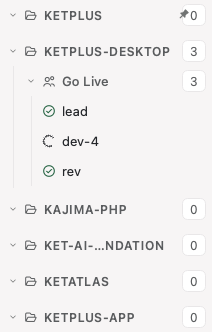
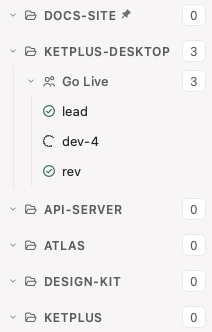
fix(sidebar): keep the pin mark clear of the count and hover action (T-92 r1)
The pin sat past the name area, over the count pill. It now follows the
drawn name inside the name area, a long name is shortened in the middle
to make room (the accessible name stays full), and it re-places on hover
and focus. A geometry test asserts it never meets the count or action.
Captures use neutral repository names.

diff --git a/tests/SidebarRepositoryOrderTest.cpp b/tests/SidebarRepositoryOrderTest.cpp
@@ -16,6 +16,7 @@
 #include <QAction>
 #include <QDateTime>
 #include <QDir>
+#include <QEnterEvent>
 #include <QJsonObject>
 #include <QMenu>
 #include <QProcess>
@@ -258,6 +259,63 @@ class SidebarRepositoryOrderTest final : public QObject {
         QCOMPARE(QSettings().value("sidebar/pinnedRepositories").toStringList(), QStringList{kept});
     }
 
+    // Round 1 L1: the pin stays clear of the count and the hover action, at any name length;
+    // a long name is shortened to make room, and the header keeps the full accessible name.
+    void thePinMarkNeverMeetsTheCountOrTheAction() {
+        const QString shortName = folder("shop");
+        const QString longName = folder("long");
+        const QString full = QStringLiteral("a-repository-name-far-too-long-for-the-sidebar-row");
+        const QVector<SidebarRepository> repositories{
+            {.path = shortName,
+             .name = "shop",
+             .conversations = {conversation("shop-1", 900)},
+             .pinnable = true},
+            {.path = longName,
+             .name = full,
+             .conversations = {conversation("long-1", 800), conversation("long-2", 700)},
+             .pinnable = true}};
+        ketplus::SidebarRepositoryList list;
+        list.resize(260, 600);
+        list.setRepositories(repositories);
+        list.setRepositoryPinned(shortName, true);
+        list.setRepositoryPinned(longName, true);
+        list.show();
+        QVERIFY(QTest::qWaitForWindowExposed(&list));
+        const auto clear = [&](const QString& path, const char* state) {
+            QCoreApplication::processEvents();
+            ket::SidebarRepositoryHeader* header = headerOf(list, path);
+            QVERIFY(header != nullptr);
+            auto* mark = header->findChild<QWidget*>("productRepositoryPinMark");
+            QVERIFY2(mark != nullptr, state);
+            QVERIFY2(header->rect().contains(mark->geometry()), state);
+            QVERIFY2(mark->geometry().right() <= header->nameRect().right(), state);
+            for (QWidget* part : header->findChildren<QWidget*>(Qt::FindDirectChildrenOnly)) {
+                if (part == mark || part->isHidden())
+                    continue;
+                QVERIFY2(!part->geometry().intersects(mark->geometry()),
+                         qPrintable(QStringLiteral("%1: pin %2 meets %3 %4")
+                                        .arg(QString::fromLatin1(state))
+                                        .arg(QDebug::toString(mark->geometry()))
+                                        .arg(QString::fromLatin1(part->metaObject()->className()))
+                                        .arg(QDebug::toString(part->geometry()))));
+            }
+        };
+        clear(shortName, "short name");
+        clear(longName, "long name");
+        ket::SidebarRepositoryHeader* header = headerOf(list, longName);
+        QVERIFY(header->text() != full);
+        QCOMPARE(header->accessibleName(), full);
+        header->setExpanded(!header->isExpanded());
+        QCOMPARE(header->accessibleName(), full);
+        // Hovered, the header shows its action where the name area ends.
+        QEnterEvent enter(QPointF(10, 10), QPointF(10, 10), QPointF(10, 10));
+        QCoreApplication::sendEvent(header, &enter);
+        clear(longName, "long name, hovered");
+        QEvent leave(QEvent::Leave);
+        QCoreApplication::sendEvent(header, &leave);
+        clear(longName, "long name, left");
+    }
+
     // Evidence for the pull request, only when KETPLUS_SIDEBAR_CAPTURE names a folder: the
     // sidebar of the report (idle repositories, then one whose conversations are all team
     // members), with one repository pinned when KETPLUS_SIDEBAR_CAPTURE_PIN is set.
@@ -266,8 +324,7 @@ class SidebarRepositoryOrderTest final : public QObject {
         if (target.isEmpty())
             QSKIP("Set KETPLUS_SIDEBAR_CAPTURE to a folder to write the captures.");
         QVector<SidebarRepository> repositories;
-        for (const QString& name :
-             {"kajima-php", "ket-ai-foundation", "ketatlas", "ketplus", "ketplus-app"})
+        for (const QString& name : {"api-server", "atlas", "design-kit", "docs-site", "ketplus"})
             repositories.append({.path = folder(name), .name = name, .pinnable = true});
         SidebarTeam golive{.id = "5", .name = "Go Live"};
         golive.members = {member("lead", "leader", 1700), member("dev-4", "developer", 1900),

diff --git a/apps/desktop/src/workspace/SidebarPinMark.cpp b/apps/desktop/src/workspace/SidebarPinMark.cpp
@@ -5,6 +5,8 @@
 #include "KetTokens.h"
 
 #include <QEvent>
+#include <QFontMetrics>
+#include <QMetaObject>
 #include <QPainter>
 #include <QPainterPath>
 
@@ -14,28 +16,74 @@ namespace {
 // Logical pixels at 100% zoom.
 constexpr qreal kMarkSize = 11;
 
+// The header's name font: its recipe's size, weight and spacing, in capitals.
+QFont nameFontOf(const ket::SidebarRepositoryHeader& header) {
+    const ket::SidebarRepositoryRecipe r = header.recipe();
+    const ket::Appearance& appearance = ket::Appearance::instance();
+    QFont font = header.font();
+    font.setPixelSize(qRound(appearance.scaled(r.namePixels)));
+    font.setWeight(QFont::Weight(r.nameWeight));
+    font.setCapitalization(QFont::AllUppercase);
+    font.setLetterSpacing(QFont::AbsoluteSpacing, r.letterSpacing * appearance.zoom());
+    return font;
+}
+
 } // namespace
 
 SidebarPinMark::SidebarPinMark(ket::SidebarRepositoryHeader* header)
-    : QWidget(header), header_(header) {
+    : QWidget(header), header_(header), fullName_(header->text()) {
     setAttribute(Qt::WA_TransparentForMouseEvents);
     connect(&ket::Appearance::instance(), &ket::Appearance::zoomChanged, this, [this] { place(); });
+    // The header names itself again when it folds or unfolds; it keeps the full name.
+    connect(header, &QAbstractButton::toggled, this,
+            [this] { header_->setAccessibleName(fullName_); });
 }
 
 void SidebarPinMark::place() {
-    const int side = qRound(kMarkSize * ket::Appearance::instance().zoom());
+    if (placing_)
+        return;
+    placing_ = true;
+    const qreal zoom = ket::Appearance::instance().zoom();
+    const int side = qRound(kMarkSize * zoom);
+    const int gap = qRound(3 * zoom);
     const QRect name = header_->nameRect();
+    const QFontMetrics metrics(nameFontOf(*header_));
+    // Room for the name once the pin and its gap are kept free at the end of the name area.
+    const int room = qMax(0, name.width() - side - gap);
+    const QString shown = metrics.horizontalAdvance(fullName_) <= room
+                              ? fullName_
+                              : metrics.elidedText(fullName_, Qt::ElideMiddle, room);
+    if (header_->text() != shown)
+        header_->setText(shown);
+    header_->setAccessibleName(fullName_);
+    const int textRight = name.left() + qMin(metrics.horizontalAdvance(shown), room);
     setFixedSize(side, side);
-    // Just past the name's area, before the count: an elided name never runs under it.
-    move(name.right() + qRound(3 * ket::Appearance::instance().zoom()),
-         name.center().y() - side / 2);
+    move(textRight + gap, name.center().y() - side / 2);
     update();
+    placing_ = false;
+}
+
+void SidebarPinMark::placeLater() {
+    // The header lays out its count and action in a queued call after focus and hover changes.
+    QMetaObject::invokeMethod(this, &SidebarPinMark::place, Qt::QueuedConnection);
 }
 
 bool SidebarPinMark::eventFilter(QObject* watched, QEvent* event) {
-    if (watched == header_ && (event->type() == QEvent::Resize || event->type() == QEvent::Show ||
-                               event->type() == QEvent::LayoutRequest))
-        place();
+    if (watched == header_) {
+        switch (event->type()) {
+        case QEvent::Resize:
+        case QEvent::Show:
+        case QEvent::LayoutRequest:
+        case QEvent::Enter:
+        case QEvent::Leave:
+        case QEvent::FocusIn:
+        case QEvent::FocusOut:
+            placeLater();
+            break;
+        default:
+            break;
+        }
+    }
     return QWidget::eventFilter(watched, event);
 }
 

diff --git a/apps/desktop/src/workspace/SidebarPinMark.h b/apps/desktop/src/workspace/SidebarPinMark.h
@@ -10,22 +10,33 @@ namespace ketplus {
 
 // T-92: the small pin a pinned repository shows at the end of its name row. Két Symbol has no
 // pin glyph yet, so it is drawn here, in the muted text colour of the theme; it follows the
-// header's size and zoom, and lets clicks through to the header.
+// header's size, zoom and hover, and lets clicks through to the header.
+//
+// The pin sits right after the drawn name, inside the header's name area, so it never meets the
+// count or the hover action. A name too long for the name area and the pin together is
+// shortened in the middle here, the way the header shortens it; the header's accessible name
+// stays the full name.
 class SidebarPinMark final : public QWidget {
     Q_OBJECT
 
   public:
     explicit SidebarPinMark(ket::SidebarRepositoryHeader* header);
 
-    // Puts the mark just after the header's name area, before its count.
+    // Puts the mark just after the drawn name, shortening the name when both do not fit.
     void place();
+    // The header's name as it was before any shortening.
+    [[nodiscard]] const QString& fullName() const { return fullName_; }
 
   protected:
     bool eventFilter(QObject* watched, QEvent* event) override;
     void paintEvent(QPaintEvent* event) override;
 
   private:
+    void placeLater();
+
     ket::SidebarRepositoryHeader* header_;
+    QString fullName_;
+    bool placing_ = false;
 };
 
 } // namespace ketplus
